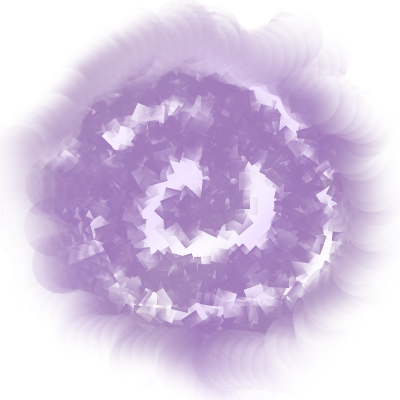
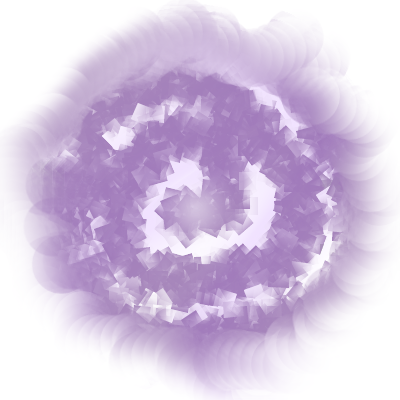
Changed images and added an activation animation to portals.

Changed region(s): [[0.42, 0.45, 0.57, 0.6]]

diff --git a/src/examples/flipflop/EntityFactory.java b/src/examples/flipflop/EntityFactory.java
@@ -1,5 +1,8 @@
 package examples.flipflop;
 
+import java.util.ArrayList;
+import java.util.List;
+
 import org.dyn4j.geometry.Circle;
 import org.dyn4j.geometry.Mass;
 import org.dyn4j.geometry.Rectangle;
@@ -12,6 +15,8 @@ import engine.core.framework.Entity;
 import engine.core.implementation.physics.base.CollisionListener;
 import engine.core.implementation.physics.data.PhysicsData;
 import engine.core.implementation.physics.logic.handler.ListenerCollisionHandlerLogic;
+import engine.core.implementation.rendering.base.Animator;
+import engine.core.implementation.rendering.data.AnimationData;
 import engine.core.implementation.rendering.logic.TextureRenderingLogic;
 
 public class EntityFactory {
@@ -25,12 +30,42 @@ public class EntityFactory {
 		physics.setRotationalVelocity(5);
 
 		ComponentFactory.addTextureData(portal,
-				new Texture(ImageUtils.getID("portal2.png"), 50, 50));
+				new Texture(ImageUtils.getID("portal1.png"), 50, 50));
+
+		AnimationData animation = new AnimationData(portal);
+		List<Texture> frames = new ArrayList<Texture>();
+		for (int i = 1; i <= 9; i++)
+			frames.add(new Texture(ImageUtils.getID("portal" + i + ".png"), 50,
+					50));
+		Animator animator = new Animator(frames, 1);
+		animation.addAnimator("activation", animator);
+		portal.addComponent(animation);
+
 		ComponentFactory.addNameData(portal, "portal");
 		ComponentFactory.addPhysicsWrappers(portal);
 		ComponentFactory.addLayerData(portal, 2);
 		ListenerCollisionHandlerLogic handler = new ListenerCollisionHandlerLogic(
 				portal);
+		portal.addComponent(handler);
+		portal.addComponent(new TextureRenderingLogic(portal));
+		return portal;
+	}
+
+	public static Entity makePortal(Vector position, CollisionListener listener) {
+		Entity portal = new Entity();
+
+		PhysicsData physics = ComponentFactory.addPhysicsData(portal, position,
+				0, new Rectangle(50, 50));
+		physics.setMassType(Mass.Type.INFINITE);
+
+		ComponentFactory.addTextureData(portal,
+				new Texture(ImageUtils.getID("portal.png"), 50, 50));
+		ComponentFactory.addNameData(portal, "portal");
+		ComponentFactory.addPhysicsWrappers(portal);
+		ComponentFactory.addLayerData(portal, 2);
+		ListenerCollisionHandlerLogic handler = new ListenerCollisionHandlerLogic(
+				portal);
+		handler.addListener(listener);
 		portal.addComponent(handler);
 		portal.addComponent(new TextureRenderingLogic(portal));
 		return portal;
@@ -85,26 +120,6 @@ public class EntityFactory {
 		return player;
 	}
 
-	public static Entity makePortal(Vector position, CollisionListener listener) {
-		Entity portal = new Entity();
-
-		PhysicsData physics = ComponentFactory.addPhysicsData(portal, position,
-				0, new Rectangle(50, 50));
-		physics.setMassType(Mass.Type.INFINITE);
-
-		ComponentFactory.addTextureData(portal,
-				new Texture(ImageUtils.getID("portal.png"), 50, 50));
-		ComponentFactory.addNameData(portal, "portal");
-		ComponentFactory.addPhysicsWrappers(portal);
-		ComponentFactory.addLayerData(portal, 2);
-		ListenerCollisionHandlerLogic handler = new ListenerCollisionHandlerLogic(
-				portal);
-		handler.addListener(listener);
-		portal.addComponent(handler);
-		portal.addComponent(new TextureRenderingLogic(portal));
-		return portal;
-	}
-
 	public static String PLATFORM_IMAGE = "";
 
 	public static Entity makePlatform(Vector position, double width,
@@ -129,6 +144,21 @@ public class EntityFactory {
 		Entity background = new Entity();
 
 		ComponentFactory.addShellData(background, new Vector(0, 0), 0);
+
+		ComponentFactory.addTextureData(background,
+				new Texture(ImageUtils.getID(imageName), width, height));
+		ComponentFactory.addShellWrappers(background);
+		ComponentFactory.addNameData(background, "background");
+		ComponentFactory.addLayerData(background, 0);
+		background.addComponent(new TextureRenderingLogic(background));
+		return background;
+	}
+
+	public static Entity makeBackground(String imageName, Vector position,
+			double width, double height) {
+		Entity background = new Entity();
+
+		ComponentFactory.addShellData(background, position, 0);
 
 		ComponentFactory.addTextureData(background,
 				new Texture(ImageUtils.getID(imageName), width, height));

diff --git a/src/engine/core/implementation/rendering/base/Animator.java b/src/engine/core/implementation/rendering/base/Animator.java
@@ -1,6 +1,5 @@
 package engine.core.implementation.rendering.base;
 
-import java.util.ArrayList;
 import java.util.List;
 
 import utils.image.Texture;
@@ -16,7 +15,7 @@ public class Animator {
 	private long m_ticksElapsed = 0;
 	private int m_currentFrame = 0;
 
-	public Animator(ArrayList<Texture> animationSequence, int ticksPerFrame) {
+	public Animator(List<Texture> animationSequence, int ticksPerFrame) {
 		m_animationSequence = animationSequence;
 		m_ticksPerFrame = ticksPerFrame;
 	}
@@ -30,7 +29,8 @@ public class Animator {
 	public void updateAnimation(int ticks) {
 		if (m_toAnimate != null && m_currentFrame < m_animationSequence.size()) {
 			m_ticksElapsed += ticks;
-			while (m_ticksElapsed >= m_ticksPerFrame && m_currentFrame < m_animationSequence.size()) {
+			while (m_ticksElapsed >= m_ticksPerFrame
+					&& m_currentFrame < m_animationSequence.size()) {
 				Texture frame = m_animationSequence.get(m_currentFrame);
 				m_toAnimate.setImageID(frame.getImageID());
 				m_toAnimate.setWidth(frame.getWidth());
@@ -38,15 +38,16 @@ public class Animator {
 				m_currentFrame++;
 				m_ticksElapsed -= m_ticksPerFrame;
 			}
-			/*m_timeSinceLastUpdate += timeNanos;
-			while (m_timeSinceLastUpdate >= m_frameIntervalNanos && m_currentFrame < m_animationSequence.size()) {
-				Texture frame = m_animationSequence.get(m_currentFrame);
-				m_toAnimate.setImageID(frame.getImageID());
-				m_toAnimate.setWidth(frame.getWidth());
-				m_toAnimate.setHeight(frame.getHeight());
-				m_currentFrame++;
-				m_timeSinceLastUpdate -= m_frameIntervalNanos;
-			}*/
+			/*
+			 * m_timeSinceLastUpdate += timeNanos; while (m_timeSinceLastUpdate
+			 * >= m_frameIntervalNanos && m_currentFrame <
+			 * m_animationSequence.size()) { Texture frame =
+			 * m_animationSequence.get(m_currentFrame);
+			 * m_toAnimate.setImageID(frame.getImageID());
+			 * m_toAnimate.setWidth(frame.getWidth());
+			 * m_toAnimate.setHeight(frame.getHeight()); m_currentFrame++;
+			 * m_timeSinceLastUpdate -= m_frameIntervalNanos; }
+			 */
 		}
 	}
 }

diff --git a/src/examples/flipflop/WorldFactory.java b/src/examples/flipflop/WorldFactory.java
@@ -1,8 +1,7 @@
-package examples.flipflop.worlds;
+package examples.flipflop;
 
 import utils.physics.Vector;
 import engine.core.framework.EntitySystem;
-import examples.flipflop.EntityFactory;
 
 public class WorldFactory {
 	public static void setWorld0(EntitySystem system) {
@@ -53,7 +52,22 @@ public class WorldFactory {
 	public static void setWorld3(EntitySystem system) {
 		EntityFactory.PLATFORM_IMAGE = "marbleblock.jpg";
 
-		system.addEntity(EntityFactory.makeBackground("terrain5.jpg", 15000,
-				6000));
+		system.addEntity(EntityFactory.makeBackground("terrain5.jpg",
+				new Vector(0, 1000), 15000, 6000));
+
+		system.addEntity(EntityFactory.makeScenery("statue3.png", new Vector(
+				-1500, -500), 500, 1000));
+		system.addEntity(EntityFactory.makeScenery("statue1.png", new Vector(
+				-1000, -500), 500, 1000));
+		system.addEntity(EntityFactory.makeScenery("statue2.png", new Vector(
+				-500, -500), 500, 1000));
+		system.addEntity(EntityFactory.makeScenery("statue3.png", new Vector(0,
+				-500), 500, 1000));
+		system.addEntity(EntityFactory.makeScenery("statue1.png", new Vector(
+				500, -500), 500, 1000));
+		system.addEntity(EntityFactory.makeScenery("statue3.png", new Vector(
+				1000, -500), 500, 1000));
+		system.addEntity(EntityFactory.makeScenery("statue2.png", new Vector(
+				1500, -500), 500, 1000));
 	}
 }

diff --git a/src/examples/flipflop/PortalManager.java b/src/examples/flipflop/PortalManager.java
@@ -7,7 +7,10 @@ import java.util.Map;
 
 import engine.core.framework.Entity;
 import engine.core.framework.EntitySystem;
+import engine.core.framework.component.type.TypeManager;
 import engine.core.implementation.physics.base.CollisionListener;
+import engine.core.implementation.rendering.data.AnimationData;
+import engine.core.implementation.rendering.data.TextureData;
 
 public class PortalManager implements CollisionListener {
 	private EntitySystem m_system;
@@ -46,6 +49,12 @@ public class PortalManager implements CollisionListener {
 
 	@Override
 	public void collided(Entity portal, Entity entity) {
+		AnimationData animation = (AnimationData) portal
+				.getComponent(TypeManager.getType(AnimationData.class));
+		TextureData texture = (TextureData) portal.getComponent(TypeManager
+				.getType(TextureData.class));
+		animation.getAnimator("activation").animate(texture.texture);
+
 		if (m_portals.containsKey(portal)) {
 			m_portals.put(portal, true);
 			m_system.removeEntity(entity);

diff --git a/src/examples/flipflop/FlipFlop.java b/src/examples/flipflop/FlipFlop.java
@@ -39,7 +39,6 @@ import engine.graphics.lwjgl.LWJGLKeyboard;
 import engine.inputs.BindingListener;
 import engine.inputs.InputManager;
 import engine.inputs.keyboard.KeyTrigger;
-import examples.flipflop.worlds.WorldFactory;
 
 public class FlipFlop extends Game {
 	private PhysicsActivity m_physics;
@@ -255,7 +254,7 @@ public class FlipFlop extends Game {
 			this.getEntitySystem().addEntity(ball);
 	}
 
-	private int m_nextLevel = 7;
+	private int m_nextLevel = 10;
 
 	private void nextLevel() {
 		this.getEntitySystem().removeAllEntities();
@@ -270,11 +269,13 @@ public class FlipFlop extends Game {
 			return;
 		}
 
-		fadingMessage("World " + (world + 1) + " Level " + (m_nextLevel + 1));
+		fadingMessage("World " + (world + 1) + " Level "
+				+ (m_nextLevel % 3 + 1));
 		DynamicLevel dynamic = new DynamicLevel();
 		try {
 			dynamic.load(LevelReader.read("level" + m_nextLevel + ".lvl"));
 		} catch (Exception e) {
+			e.printStackTrace();
 			System.exit(0);
 		}
 		loadLevel(dynamic);
